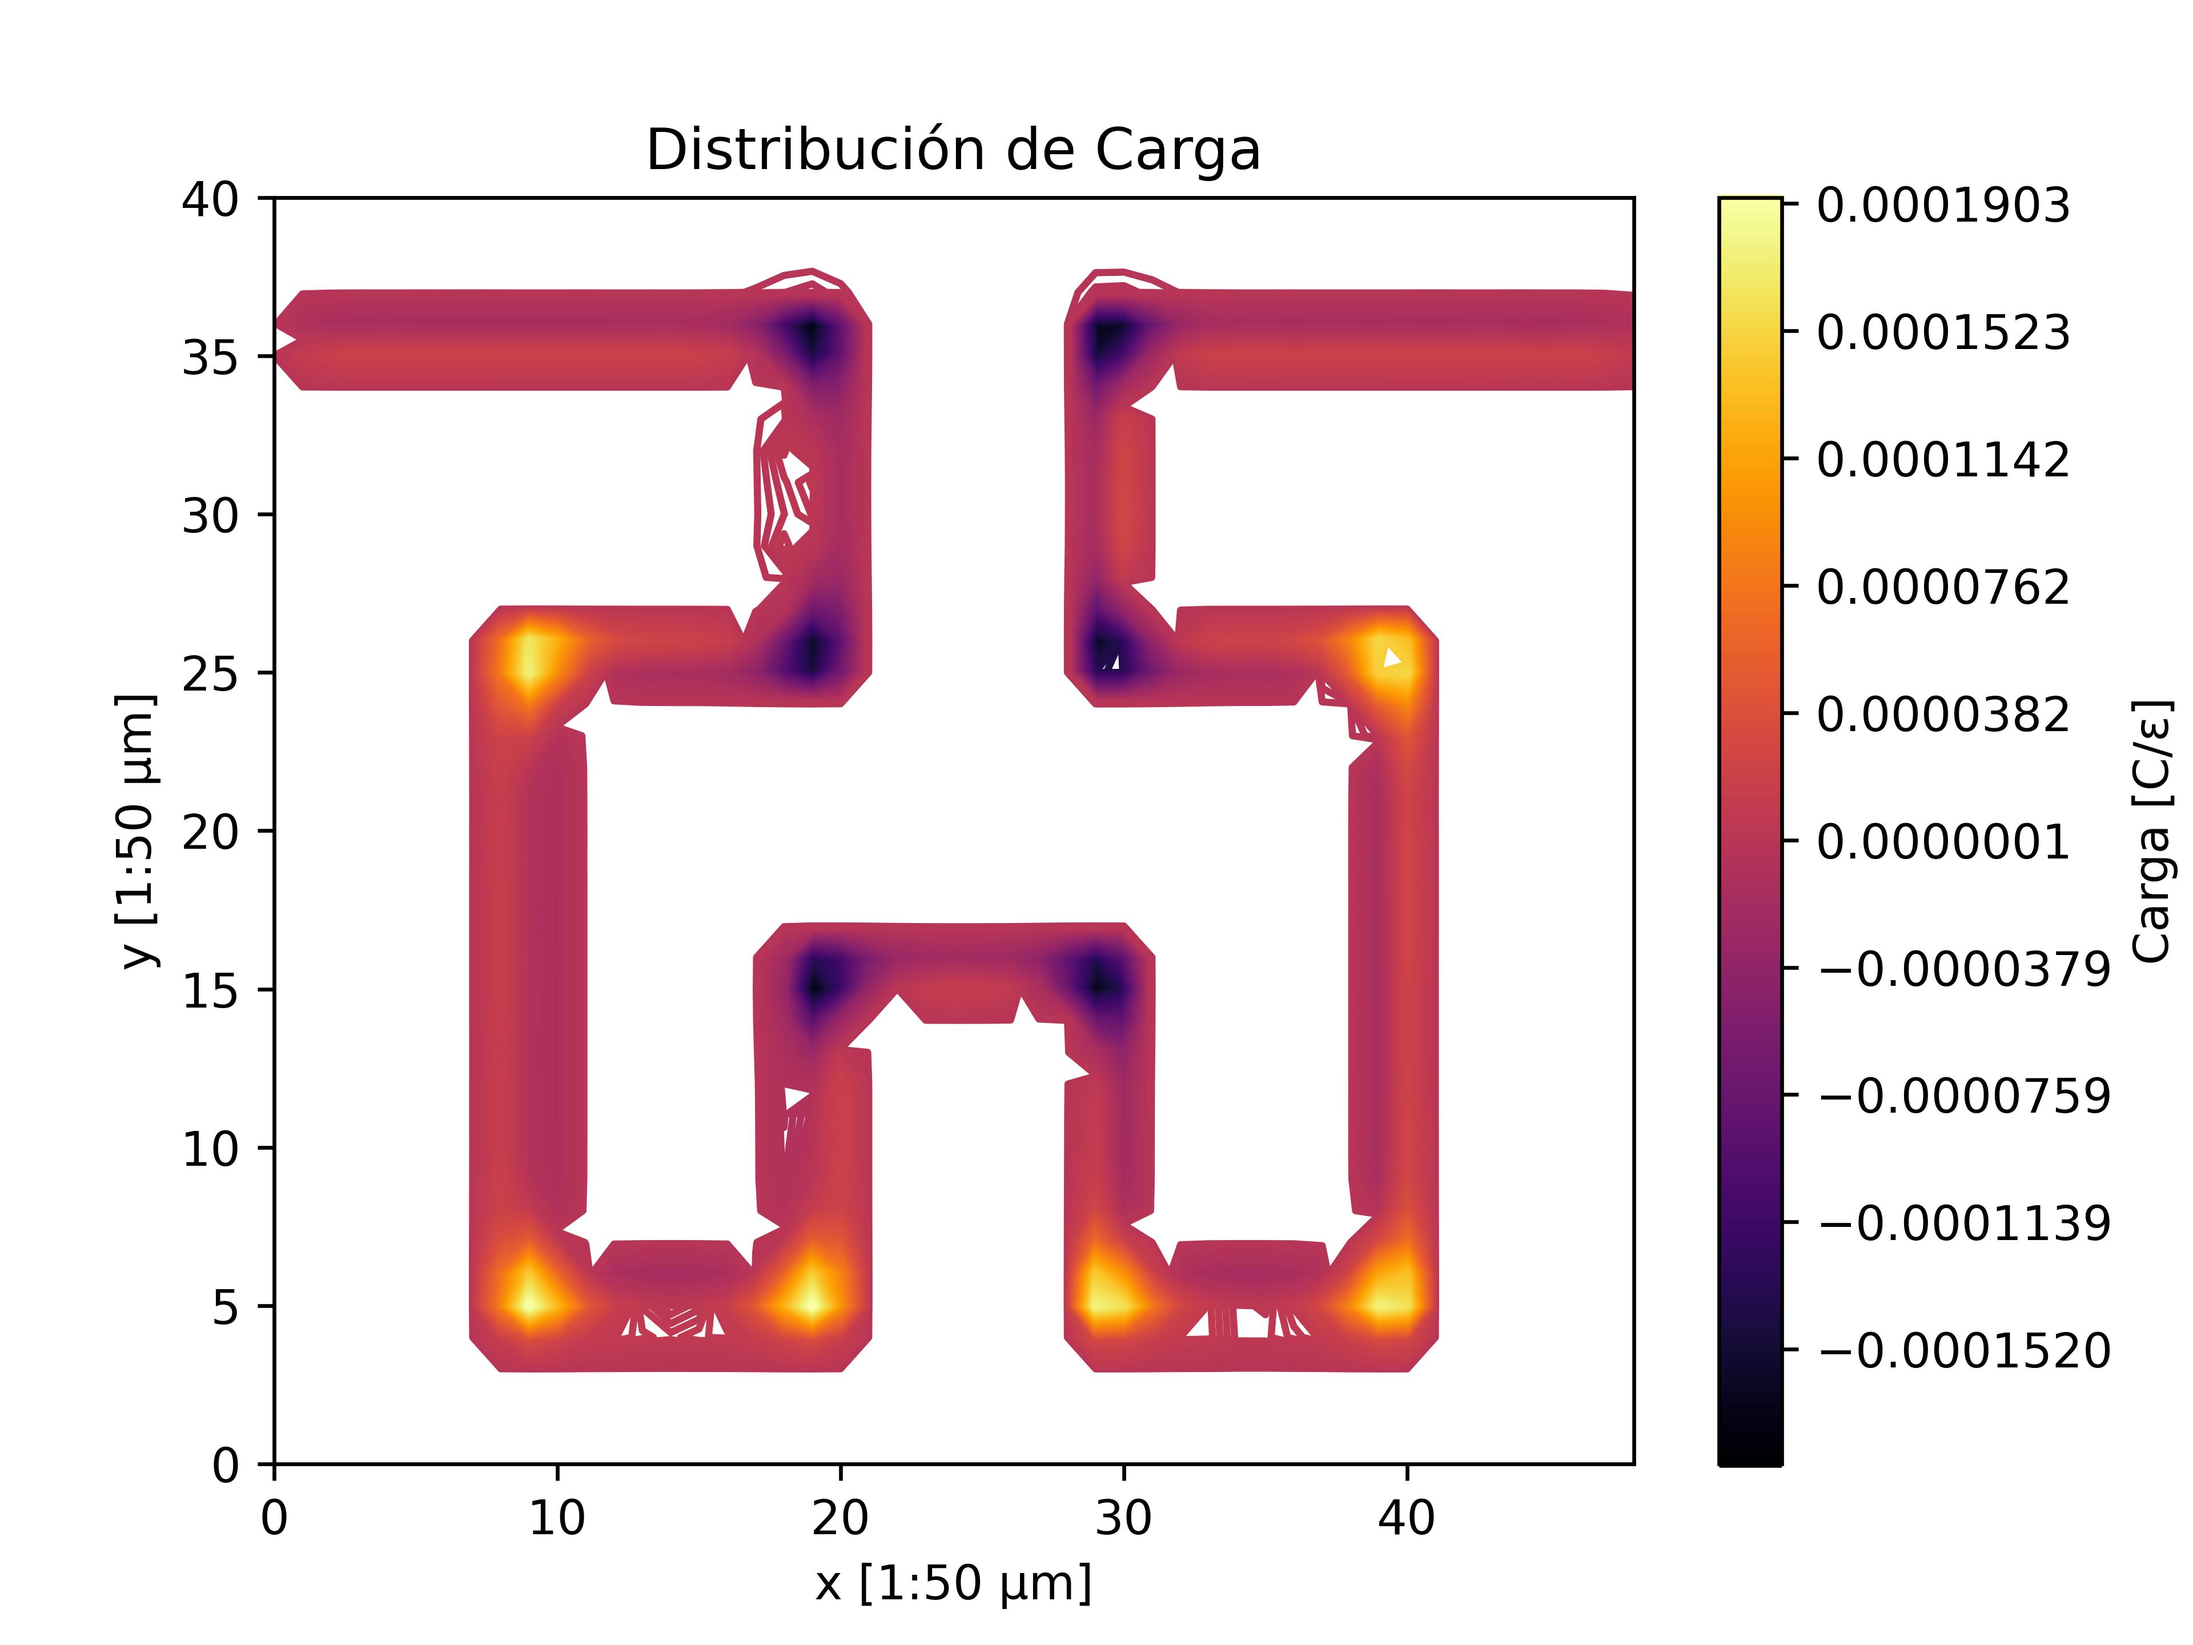
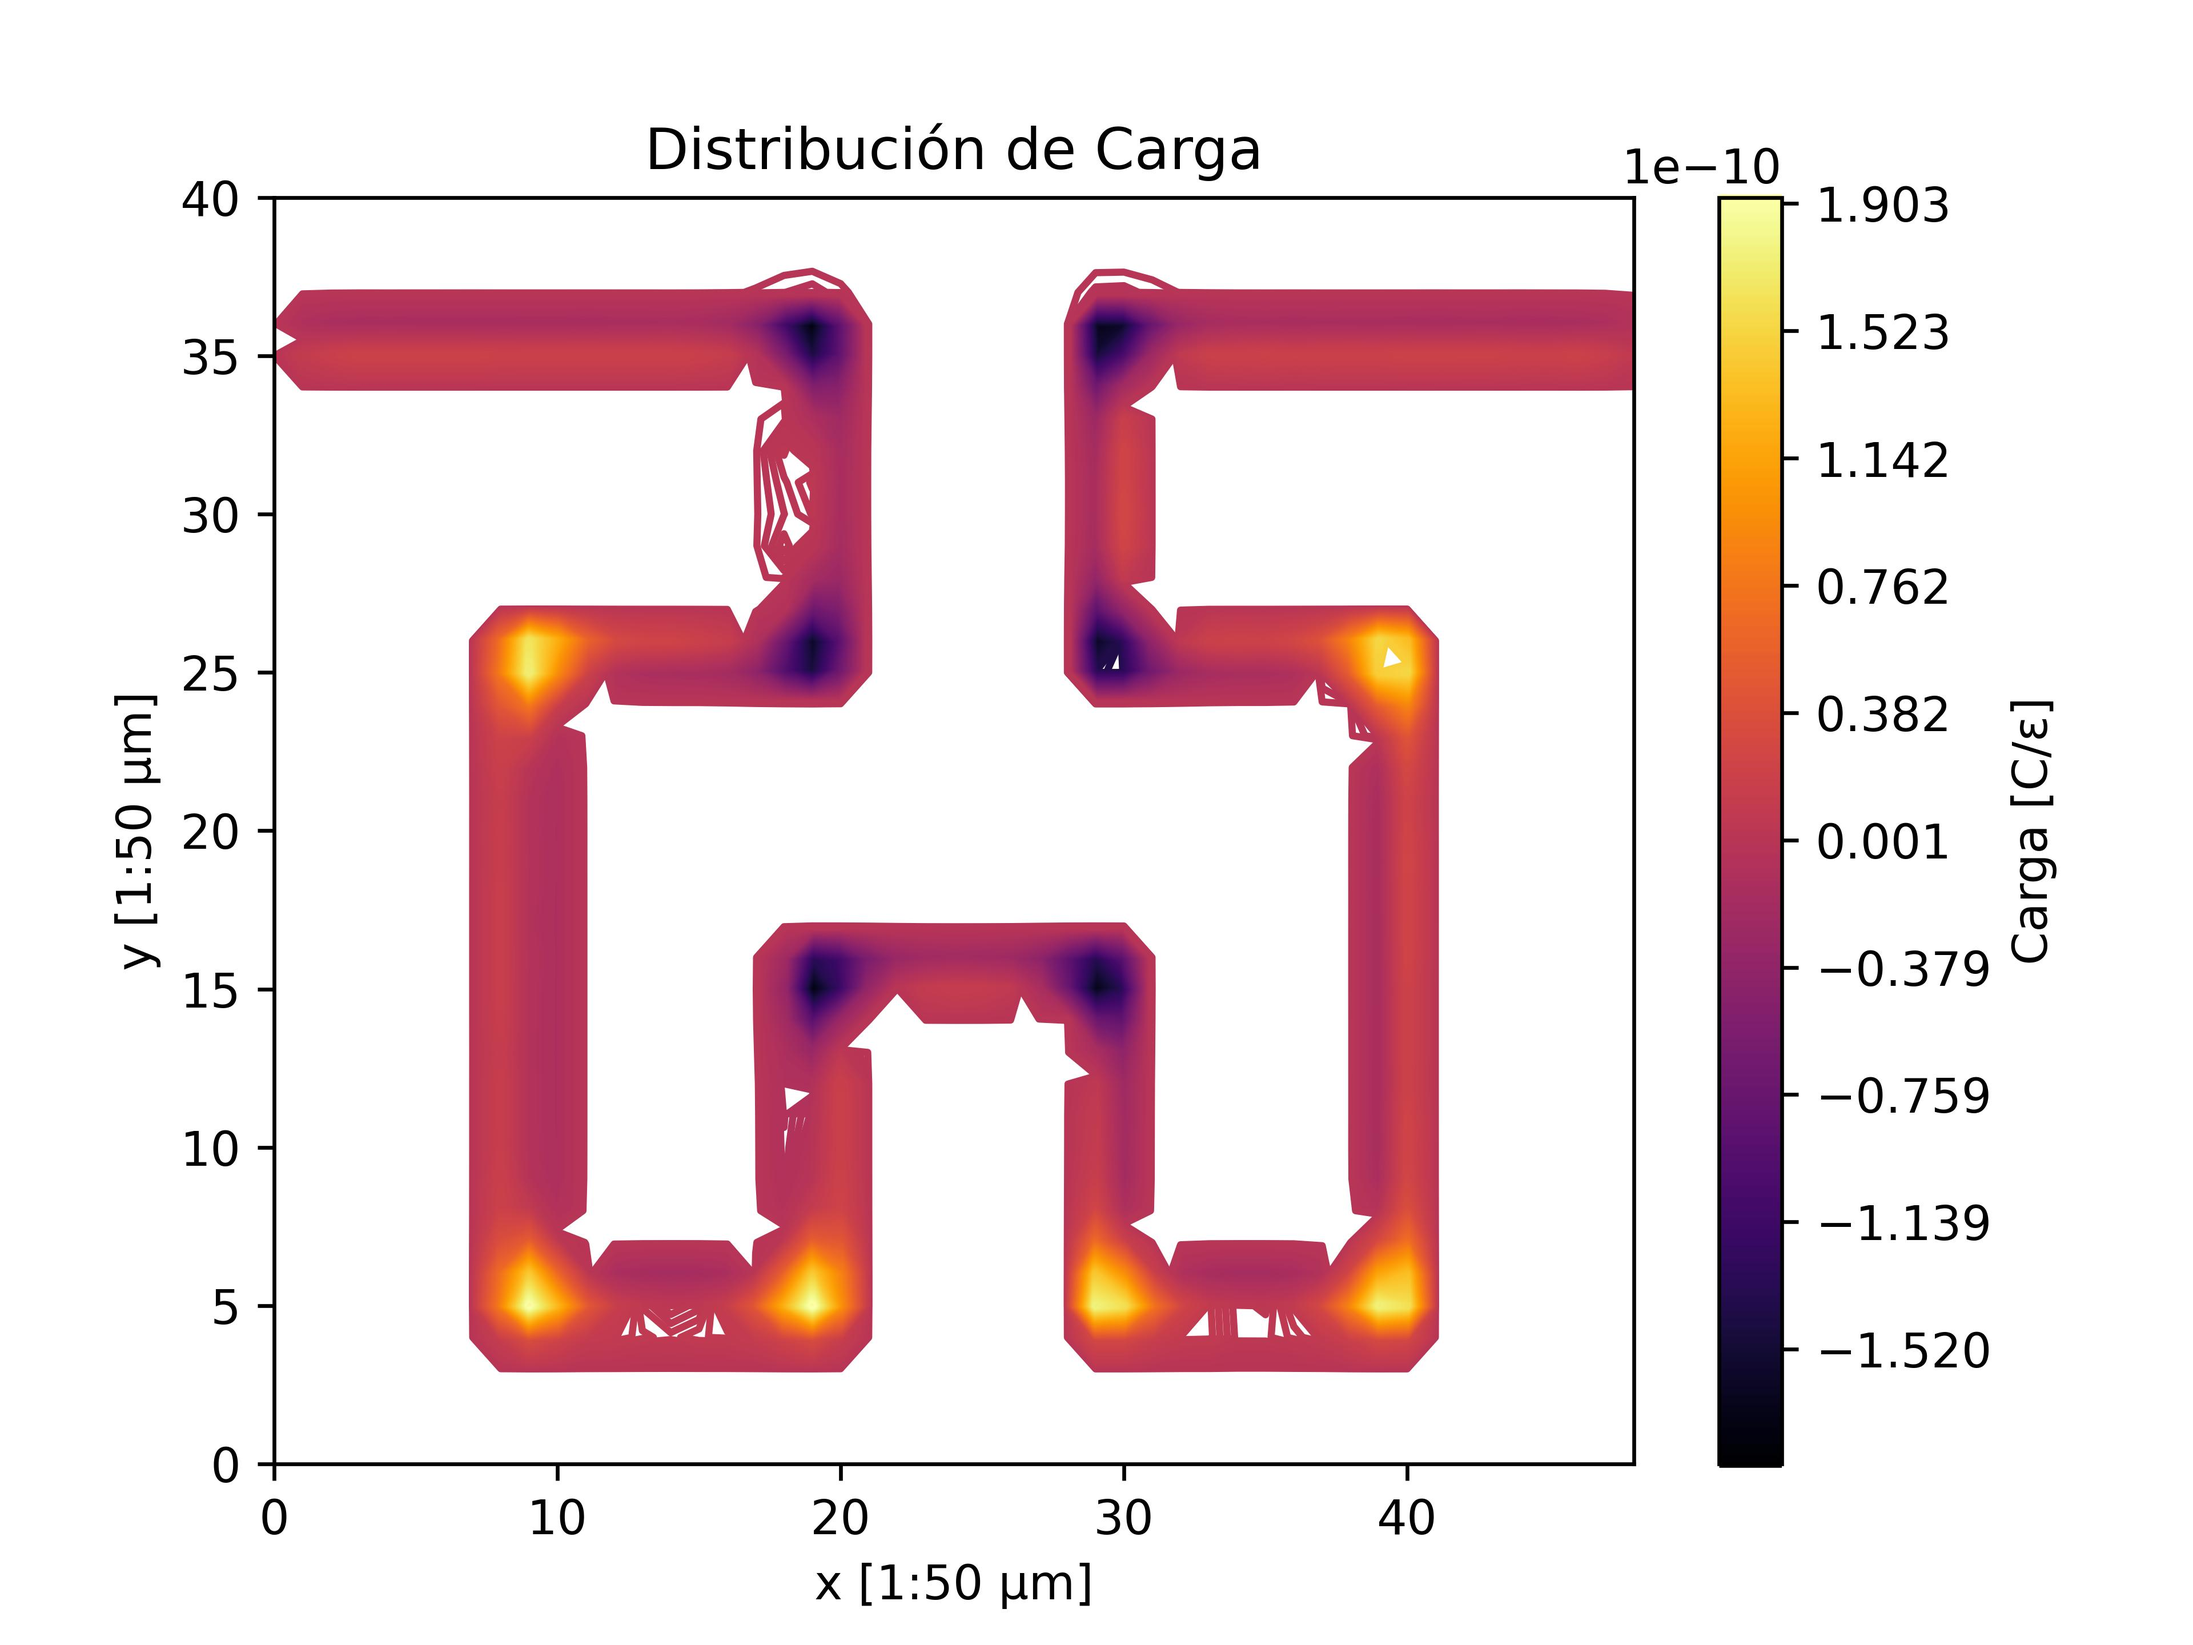
are you ready to jingle your bells 2

diff --git a/potencialrust/src/main.rs b/potencialrust/src/main.rs
@@ -104,39 +104,9 @@ fn obtener_valores(matriz: &mut Vec<Vec<f32>>, valor_buscado: f32) -> Vec<(usize
     indices_a_cambiar
 }
 
-/*Esta descripción sale directa de ChatGPT, porque le pedi esta funcion
-
+/*
 Esta función, llamada write_matrix_to_file_parallel, toma una matriz mutable de números de punto flotante (f32)
-y un camino de archivo (file_path), y escribe el contenido de la matriz en un archivo. Aquí está el desglose de la función:
-
-matrix.par_iter_mut(): Esto utiliza la función par_iter_mut() proporcionada por la biblioteca rayon para realizar una iteración
-paralela sobre las filas de la matriz. La iteración paralela permite procesar múltiples filas simultáneamente, lo que puede mejorar
-el rendimiento en sistemas con varios núcleos de CPU.
-
-.map(|row| { ... }): Para cada fila de la matriz, se ejecuta una función de mapeo que realiza las siguientes operaciones:
-
-row.iter_mut().map(|num| num.to_string()): Itera sobre los números de la fila y los convierte a cadenas de texto. Esto se hace
-utilizando iter_mut() para obtener iteradores mutables sobre los elementos de la fila y map(|num| num.to_string()) para convertir cada
-número a su representación de cadena.
-
-.collect::<Vec<String>>(): Recoge los resultados de la operación de mapeo en un vector de cadenas.
-
-.join("\t"): Utiliza el método join para unir las cadenas en una sola cadena, separando cada número por una tabulación ("\t").
-
-.collect(): Recoge los resultados de la iteración paralela en un vector de cadenas llamado formatted_rows.
-
-let mut file = File::create(file_path)?;: Abre un nuevo archivo en el camino especificado utilizando File::create().
-El operador ? se utiliza para manejar automáticamente los errores y devolver un error si la operación de apertura del archivo no tiene éxito.
-
-for row_str in formatted_rows { ... }: Itera sobre cada cadena formateada en formatted_rows.
-
-writeln!(file, "{}", row_str)?;: Escribe la cadena en el archivo seguido de un salto de línea utilizando writeln!.
- Nuevamente, el operador ? se utiliza para manejar automáticamente los errores.
-Ok(()): Después de escribir todas las filas en el archivo, la función devuelve Ok(()), indicando que la operación se realizó con éxito.
-
-En resumen, esta función utiliza la programación paralela para formatear y escribir las filas de una matriz en un archivo de manera eficiente,
-aprovechando la capacidad de procesamiento paralelo para mejorar el rendimiento en sistemas con múltiples núcleos de CPU.
-
+y un camino de archivo (file_path), y escribe el contenido de la matriz en un archivo, mediante escritura paralela. 
 */
 
 fn write_matrix_to_file_parallel(matrix: &mut Vec<Vec<f32>>, file_path: &str) -> io::Result<()> {
@@ -320,7 +290,10 @@ fn main() {
         }
     }
 
-    //let mut phip: Vec<Vec<f32>> = crear_matriz(m, n, 0.0); 
+    /*Lo que hace este segmento de código es realizar una iteración sobre todas las areas
+    del potencial calculado eléctrico aplica el laplaciano a cada elemento y discrepa si es
+    positivo o negativo para hacer una suma ponderada de la carga, posteriormente el valor
+    del laplaciano se guarda en una matriz de distribución de carga discreta. */
     
     let mut qp: f32=0.0;
     let mut qn : f32=0.0;
@@ -352,6 +325,7 @@ fn main() {
         }
     }
 
+    //imprimir los valores ponderados de la carga
     let Q: Vec<(f32, f32)> = vec![(qp, qn)]; 
     println!("Carga Positiva, Carga negativa [Pesos]: {:?}", Q);
 

diff --git a/graficador.py b/graficador.py
@@ -119,7 +119,7 @@ plt.show()
 
 rutacarga = 'potencialrust/phip.txt'
 Q = archivo_texto_a_matriz(rutacarga)
-Qn = Q[::50,::50]
+Qn = Q[::50,::50]*(1/1e+6) #factor de escala para usar unidades del S.I
 
 nonzero_indices = np.nonzero(Qn)
 
